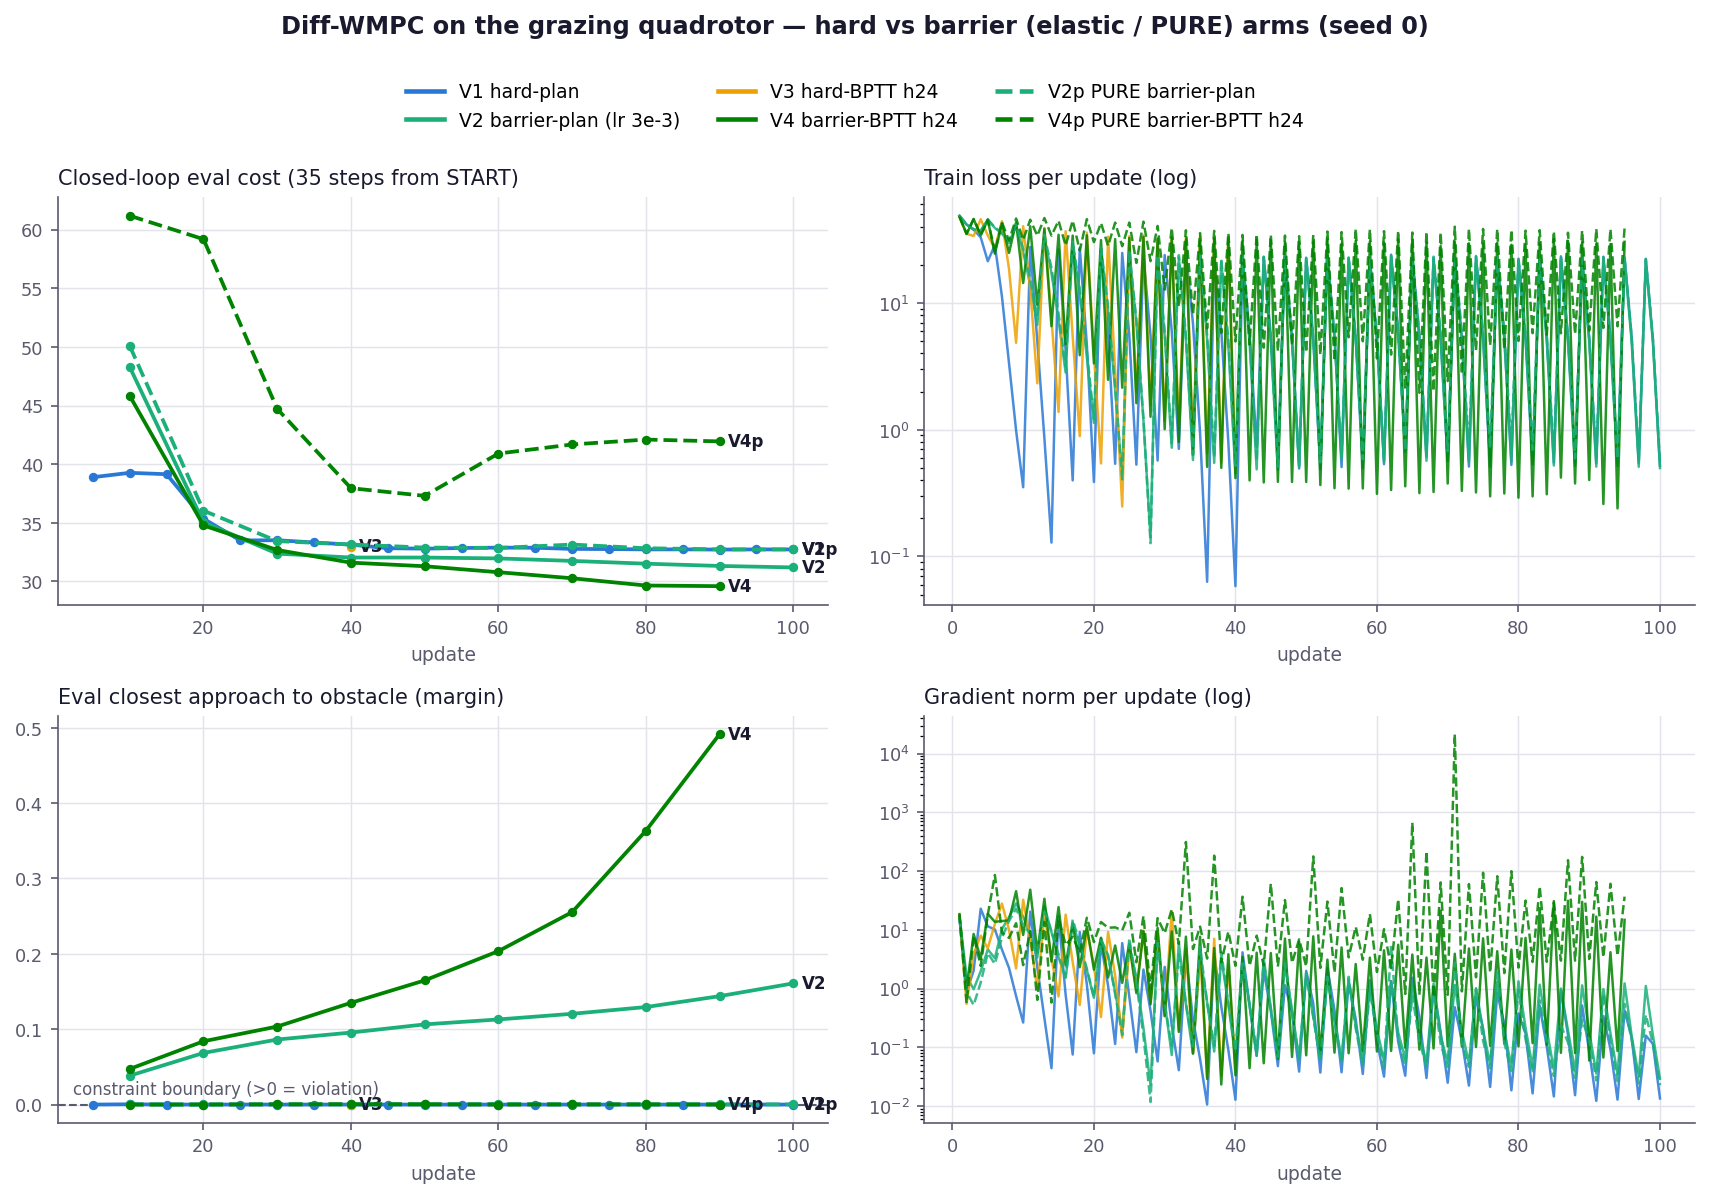
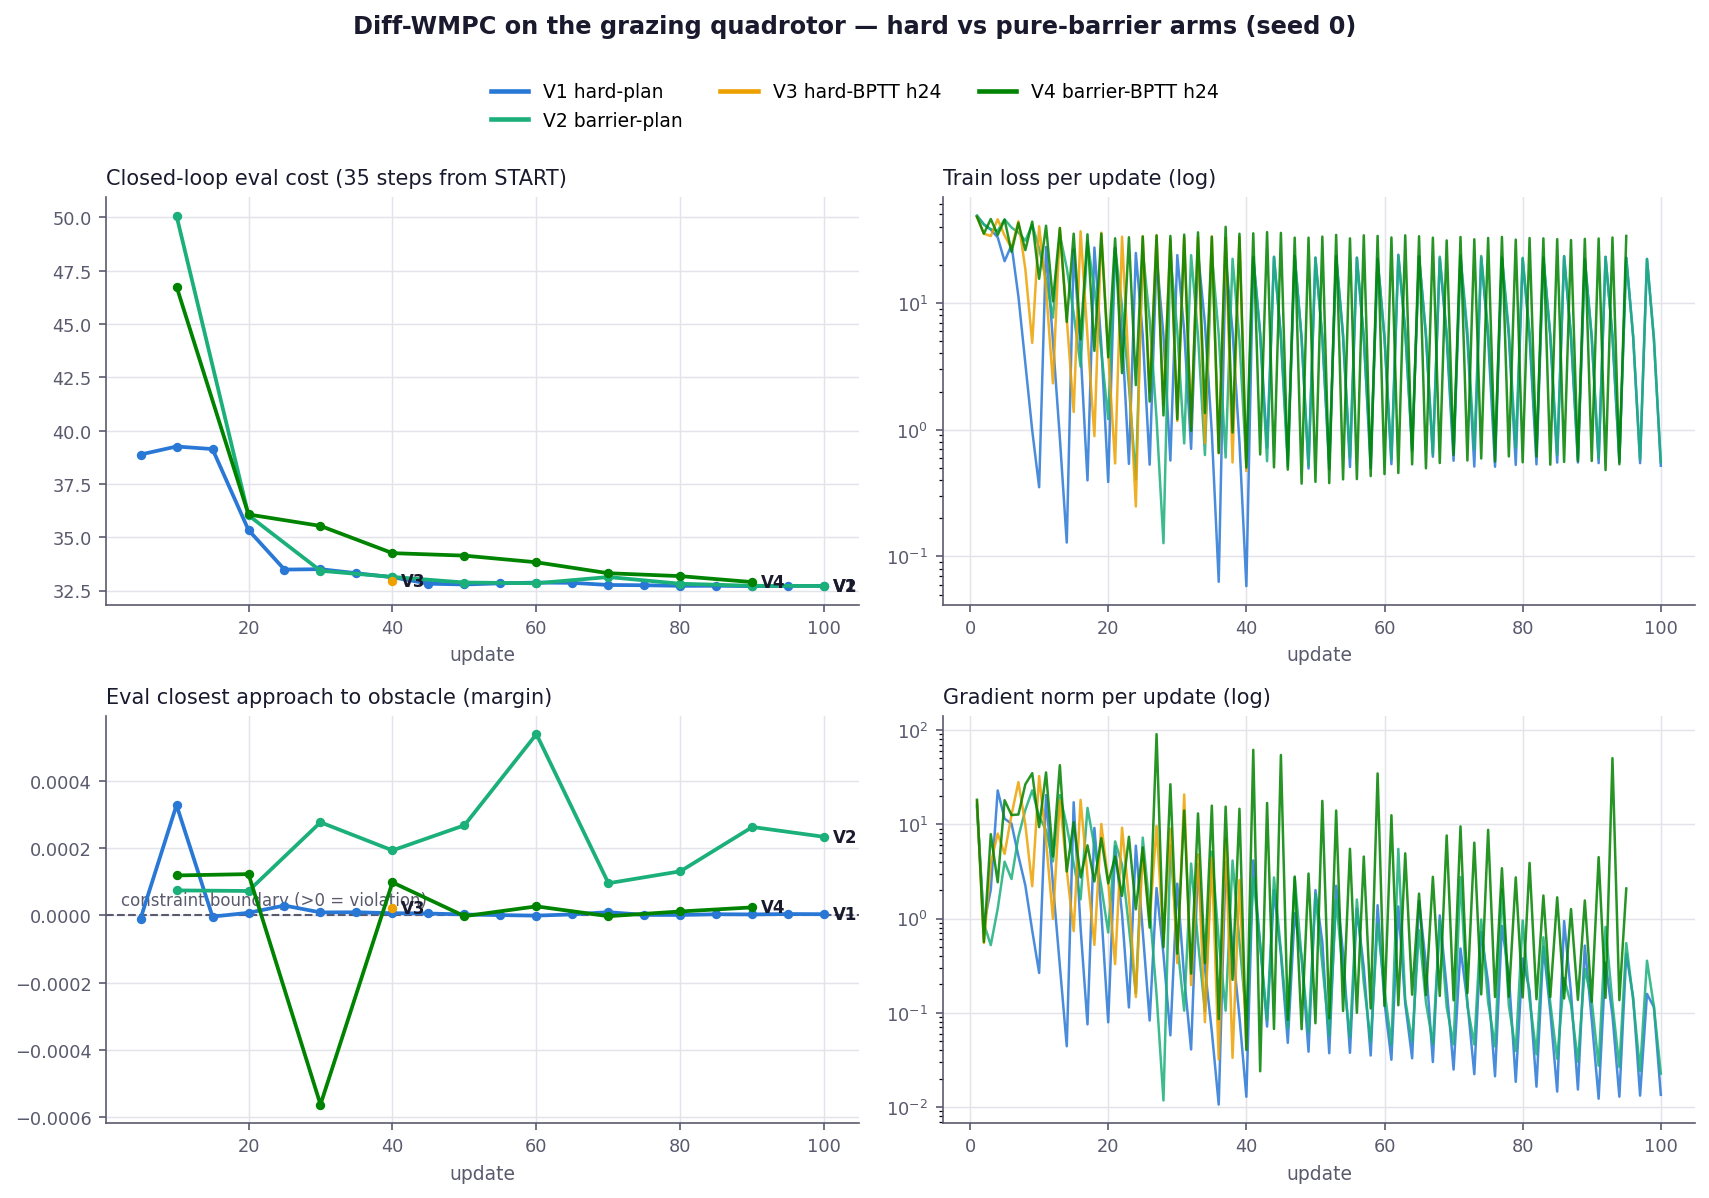
plot(drone_rl): regsens A/B figure + 4-arm pure-barrier V1-V4 plot + HANDOFF
quadrotor_regsens_ab.png: sigma_x 0-vs-1e-2 on V4p pure (eval / grad / margin) —
grad capped 100.9->48.3, eval flat 32.8 vs OFF drift to 35.7. plot_regsens_ab.py
added. plot_v2_v4.py: V2/V4 repointed to the pure-barrier instances (4-arm
hard-vs-pure). HANDOFF 07-08(2) records the A/B + recommendation sigma_x~1e-2.

diff --git a/experiments/rl/drone_rl/util/plot_regsens_ab.py b/experiments/rl/drone_rl/util/plot_regsens_ab.py
@@ -1,0 +1,75 @@
+"""§4.7 regularized-sensitivity A/B on V4p pure barrier (sigma_x = 0 vs 1e-2).
+
+Three panels: eval cost (milestones), per-update gradient norm (log; the spike
+channel), and eval closest-margin — OFF vs ON. Both runs are V4p pure, lifted,
+seed 0, 95 updates, identical code except the §4.7 primal Levenberg-Marquardt
+term sigma_x. Output: results/plot/quadrotor_regsens_ab.png
+"""
+import csv
+import os
+import sys
+
+import matplotlib
+matplotlib.use("Agg")
+import matplotlib.pyplot as plt
+import numpy as np
+
+_HERE = os.path.dirname(os.path.abspath(__file__))
+sys.path.insert(0, os.path.dirname(_HERE))
+from util.plot import DATA_DIR, INK, MUTED, apply_style, save_fig, end_label  # noqa: E402
+
+RUNS = [
+    ("sigma_x = 0 (off)",   "train_quadrotor_bptt_barrier_pure_seed0_regOFF.csv",      "#c04a4a", "-"),
+    ("sigma_x = 1e-2 (on)", "train_quadrotor_bptt_barrier_pure_regsx0.01sf0_seed0.csv", "#1baf7a", "-"),
+]
+
+
+def load(fn):
+    rows = list(csv.DictReader(open(os.path.join(DATA_DIR, fn))))
+    upd = np.array([int(r["update"]) for r in rows])
+    g = np.array([float(r["grad_norm"]) for r in rows])
+    eu = np.array([int(r["update"]) for r in rows if r["eval_cost"]])
+    ec = np.array([float(r["eval_cost"]) for r in rows if r["eval_cost"]])
+    em = np.array([float(r["eval_closest_margin"]) for r in rows if r["eval_cost"]])
+    return dict(upd=upd, g=g, eu=eu, ec=ec, em=em)
+
+
+def main():
+    data = {n: load(f) for n, f, _, _ in RUNS}
+    col = {n: c for n, f, c, _ in RUNS}
+
+    fig, ax = plt.subplots(1, 3, figsize=(15, 4.4), dpi=150)
+    fig.patch.set_facecolor("white")
+    for a in ax:
+        apply_style(a)
+
+    for n, d in data.items():
+        ax[0].plot(d["eu"], d["ec"], color=col[n], lw=2.0, marker="o", ms=4, zorder=3)
+        end_label(ax[0], d["eu"], d["ec"], n.split()[2])
+    ax[0].set_title("Closed-loop eval cost (35 steps from START)", fontsize=10, color=INK, loc="left")
+    ax[0].set_xlabel("update", fontsize=9, color=MUTED)
+
+    for n, d in data.items():
+        ax[1].semilogy(d["upd"], np.maximum(d["g"], 1e-3), color=col[n], lw=1.1, alpha=0.9, label=n)
+    ax[1].axhline(50, color=MUTED, lw=1.0, ls="--")
+    ax[1].annotate("grad = 50", (0.02, 50), xycoords=("axes fraction", "data"),
+                   xytext=(0, 3), textcoords="offset points", fontsize=8, color=MUTED)
+    ax[1].set_title("Gradient norm per update (log)", fontsize=10, color=INK, loc="left")
+    ax[1].set_xlabel("update", fontsize=9, color=MUTED)
+    ax[1].legend(frameon=False, fontsize=9, loc="upper right")
+
+    ax[2].axhline(0.0, color=MUTED, lw=1.0, ls="--")
+    for n, d in data.items():
+        ax[2].plot(d["eu"], d["em"], color=col[n], lw=2.0, marker="o", ms=4, zorder=3)
+        end_label(ax[2], d["eu"], d["em"], n.split()[2])
+    ax[2].set_title("Eval closest approach to obstacle (margin)", fontsize=10, color=INK, loc="left")
+    ax[2].set_xlabel("update", fontsize=9, color=MUTED)
+
+    fig.suptitle("§4.7 regularized sensitivity on V4p pure barrier — sigma_x = 0 vs 1e-2 (seed 0)",
+                 fontsize=11.5, color=INK, y=1.03, fontweight="bold")
+    fig.tight_layout(rect=(0, 0, 1, 0.96))
+    save_fig(fig, "quadrotor_regsens_ab.png")
+
+
+if __name__ == "__main__":
+    main()

diff --git a/experiments/rl/drone_rl/util/plot_v2_v4.py b/experiments/rl/drone_rl/util/plot_v2_v4.py
@@ -22,15 +22,14 @@ from util.plot import (  # noqa: E402
 
 # (label, csv, color, linestyle) — solid = hard / elastic-barrier, dashed = PURE barrier.
 # Pure entries are skipped silently until their runs produce CSVs.
+# V2/V4 = the UPDATED pure-barrier (no inequality slack) instances.
+# V4's canonical *_pure_seed0.csv is being overwritten by the in-flight regsens A/B;
+# _lifted.csv is the finished pure-barrier lifted run (eval 46.76->32.91).
 ARMS = [
-    ("V1 hard-plan",        "train_quadrotor_plan_hard_seed0.csv",     ARM_COLORS["plan_hard"], "-"),
-    ("V2 barrier-plan (lr 3e-3)", "train_quadrotor_plan_barrier_seed0.csv", ARM_COLORS["plan_barrier"], "-"),
-    ("V3 hard-BPTT h24",    "train_quadrotor_bptt_hard_h24_seed0.csv", ARM_COLORS["bptt_hard"], "-"),
-    ("V4 barrier-BPTT h24", "train_quadrotor_bptt_barrier_seed0.csv",  ARM_COLORS["bptt_barrier"], "-"),
-    ("V2p PURE barrier-plan", "train_quadrotor_plan_barrier_pure_seed0.csv",
-     ARM_COLORS["plan_barrier_pure"], "--"),
-    ("V4p PURE barrier-BPTT h24", "train_quadrotor_bptt_barrier_pure_seed0.csv",
-     ARM_COLORS["bptt_barrier_pure"], "--"),
+    ("V1 hard-plan",        "train_quadrotor_plan_hard_seed0.csv",          ARM_COLORS["plan_hard"], "-"),
+    ("V2 barrier-plan",     "train_quadrotor_plan_barrier_pure_seed0.csv",  ARM_COLORS["plan_barrier"], "-"),
+    ("V3 hard-BPTT h24",    "train_quadrotor_bptt_hard_h24_seed0.csv",      ARM_COLORS["bptt_hard"], "-"),
+    ("V4 barrier-BPTT h24", "train_quadrotor_bptt_barrier_pure_seed0_lifted.csv", ARM_COLORS["bptt_barrier"], "-"),
 ]
 
 
@@ -99,7 +98,7 @@ def main():
                for n in data]
     fig.legend(handles=handles, loc="upper center", ncol=3, frameon=False,
                fontsize=9, bbox_to_anchor=(0.5, 1.0))
-    fig.suptitle("Diff-WMPC on the grazing quadrotor — hard vs barrier (elastic / PURE) arms (seed 0)",
+    fig.suptitle("Diff-WMPC on the grazing quadrotor — hard vs pure-barrier arms (seed 0)",
                  fontsize=11.5, color=INK, y=1.045, fontweight="bold")
     fig.tight_layout(rect=(0, 0, 1, 0.97))
     save_fig(fig, "quadrotor_v2_v4_training_curves.png")

diff --git a/HANDOFF.md b/HANDOFF.md
@@ -315,6 +315,34 @@ observation was an artifact — the flag wasn't plumbed; never actually A/B'd in
   construction), re-eval barrier-trained weights under the HARD deploy controller, V2@lr=3e-3,
   multi-seed. CSVs: `results/train_quadrotor_{plan,bptt}_barrier_seed0.csv`; policies saved.
 
+## ✅ UPDATE 2026-07-08 (2) — §4.7 regularized sensitivities: A/B confirms sigma_x tames the spikes
+
+Implemented the Log_Barrier_ADMM.pdf §4.7 regularized adjoint (solver `2825998`, layer/CLI
+`a850ef0`/`feec665`): `sigma_x*I` on the primal Hessian block (Levenberg–Marquardt) + `-sigma_f*I`
+on the equality-dual block (softened tangent feasibility). Both default 0 = exact unregularized
+(gated byte-for-byte; matches an independent dense reference of eq. 44 exactly on the dense path).
+`train.py --bwd_sigma_x/--bwd_sigma_f`.
+
+**A/B (V4p pure lifted, seed 0, 95 upd, identical code, only sigma_x differs) — plot
+`results/plot/quadrotor_regsens_ab.png`, CSVs `*_regOFF.csv` / `*_regsx0.01sf0_seed0.csv`:**
+| | OFF sigma_x=0 | ON sigma_x=1e-2 |
+|---|---|---|
+| grad max | 100.9 | **48.3** |
+| updates grad>50 / >100 | 3 / 1 | **0 / 0** |
+| updates nonconv>0 | 21 | 29 |
+| eval @ 60/70/80/90 | 32.8/33.0/35.2/**35.7** | 32.7/32.8/32.8/**32.8** |
+| final eval | 34.6 | 33.4 |
+
+**Mechanism confirmed:** sigma_x is backward-only so it does NOT reduce non-convergence (ON has
+MORE nonconv windows, 29 vs 21, as the diverged θ-path visits different ones) — but it makes the
+ADJOINT robust to the near-singular reduced Hessian at those points, capping the gradient
+(100.9→48.3, none >50). Adam then never takes the disruptive step, so eval stays FLAT at the
+hard-arm level (32.7–32.8) instead of OFF's late drift to 35.7. 0 violations both.
+sigma_x=1e-2 = a 10% floor relative to the smallest cost curvature (R=0.1). Cost: backward-only,
+~same per-update time. ⇒ **recommend sigma_x~1e-2 as the default for the pure-barrier BPTT arm.**
+(OFF upd-61 spike checkpoint kept for a deterministic replay if a single-point damping number is
+wanted.)
+
 ## ✅ UPDATE 2026-07-08 — LIFTED barrier SQP (outer-slack IPM) + rescale wiring; V4p spike saga CLOSED
 
 **The V4p pure-barrier gradient-spike investigation is resolved.** Full chain (all committed &
